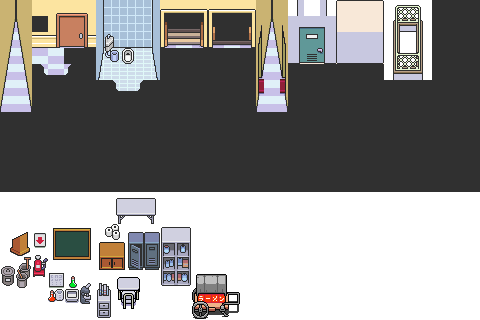
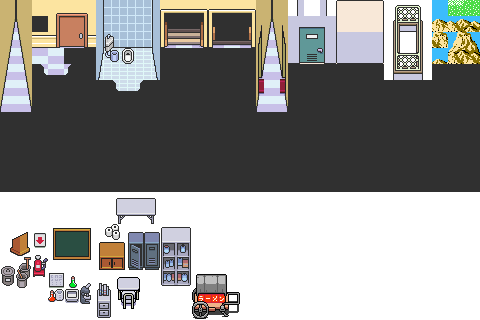
Add Parallax Bg

Changed region(s): [[0.875, 0.0, 1.0, 0.2188]]

diff --git a/src/explore/world.js b/src/explore/world.js
@@ -55,6 +55,7 @@ World.prototype.loadMap = function(mapId, locationId) {
     var self = this;
     var game = this.game;
     this.map = game.resources[mapId];
+    this.mapParallax = this.map.render(['layer-'], game.resources);
     this.mapImage = this.map.render(['layer0', 'layer1'], game.resources);
     this.mapFrontImage = this.map.render(['layer2'], game.resources);
     var start = this.map.layers.locations[locationId];
@@ -99,6 +100,12 @@ World.prototype.loadMap = function(mapId, locationId) {
 World.prototype.draw = function (ctx, v, res) {
     var player = this.player;
     var entities = this.entities;
+
+    ctx.drawImage(
+        this.mapParallax,
+        (v.x/16) | 0, (v.y/16) | 0, v.width, v.height,
+        0, 0, v.width, v.height
+    );
 
     ctx.drawImage(
         this.mapImage,
